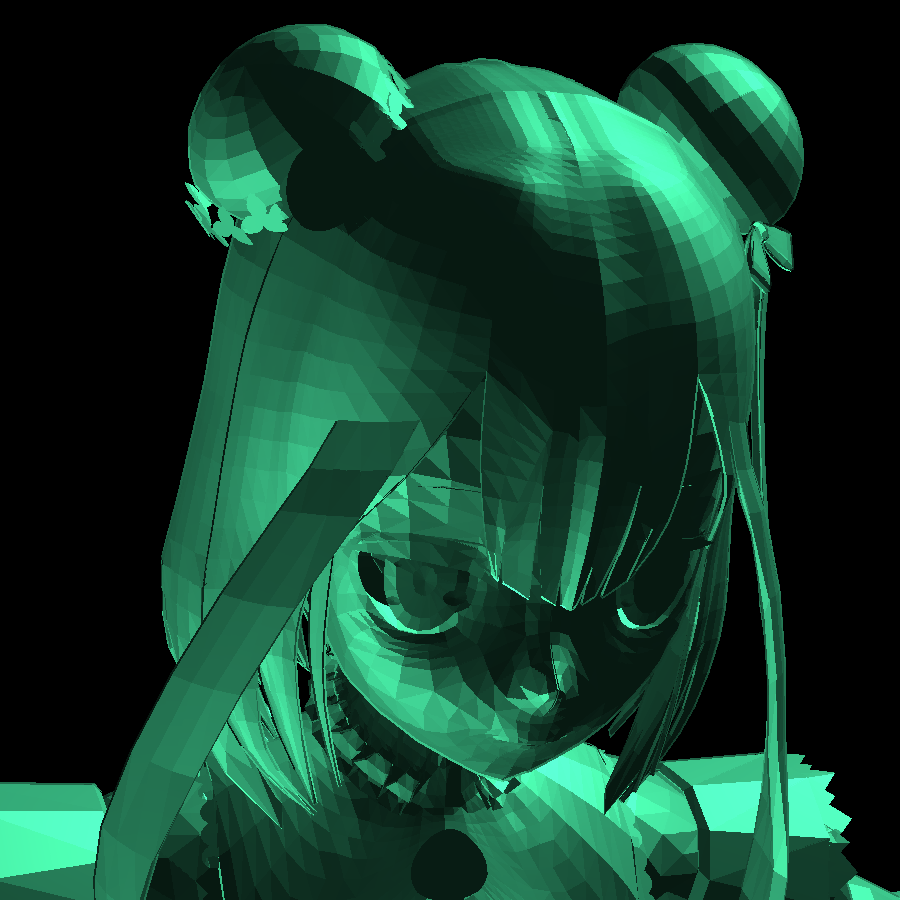
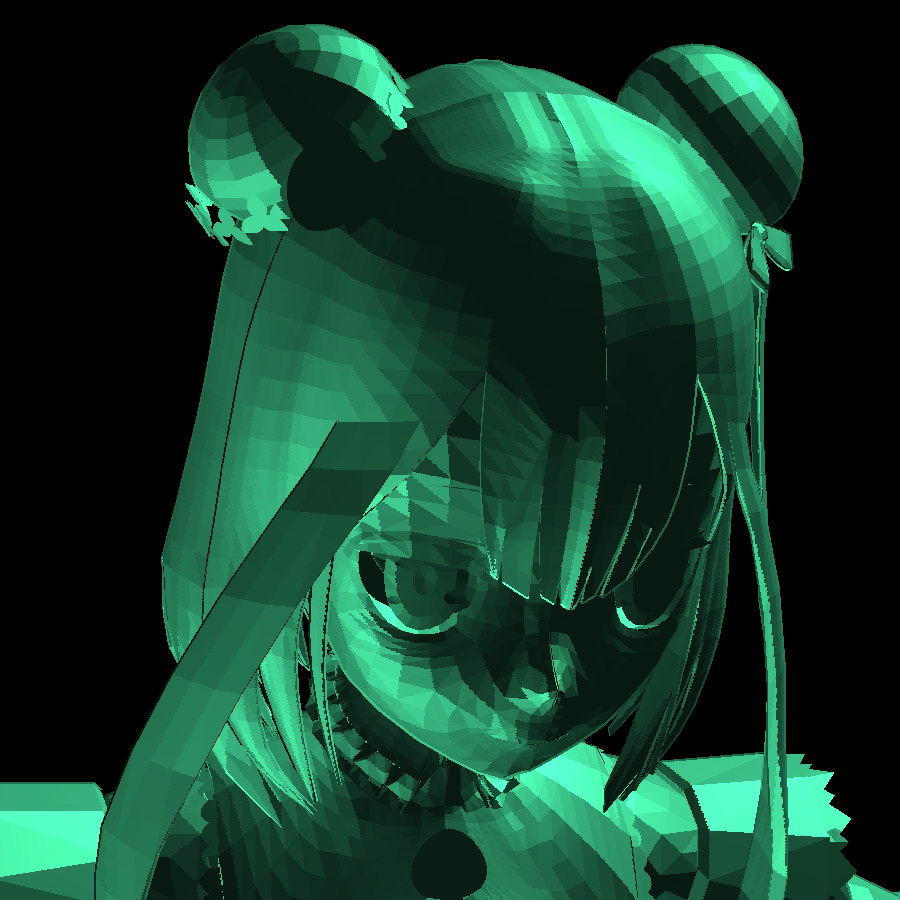
New Flat way

diff --git a/src/utils.py b/src/utils.py
@@ -297,6 +297,23 @@ def DrawPhongShadedLine(
                 )
             )
 
+def toInt(val):
+    #return math.floor(val)
+    if val > 0:
+        return math.floor(val)
+    else:
+        return math.ceil(val)
+
+def update_p(toP1_p, toP2_p, toP1_v, toP2_v, toB1_v, toB2_v):
+    toP1_p_return = copy.deepcopy(toP1_p)
+    toP2_p_return = copy.deepcopy(toP2_p)
+    toP1_p_return.loc += toP1_v
+    toP2_p_return.loc += toP2_v
+    toP1_p_return.b += toB1_v[1]
+    toP2_p_return.b += toB2_v[1]
+
+    return (toP1_p_return, toP2_p_return)
+
 def DrawFlatShadedTriangle (p0, p1, p2, canva:Canva, color):
     points = [p0, p1, p2]
 
@@ -304,80 +321,103 @@ def DrawFlatShadedTriangle (p0, p1, p2, canva:Canva, color):
         return
     
     # Sort points depended on y
-    if(points[1].loc[1] < points[0].loc[1]):
+    # sort to
+    #        0
+    #       /|
+    #      / |
+    #     1  |
+    #      \ |
+    #       \|
+    #        2
+    if(points[1].loc[1] > points[0].loc[1]):
         temp = points[1]
         points[1] = points[0]
         points[0] = temp
     
-    if(points[2].loc[1] < points[0].loc[1]):
+    if(points[2].loc[1] > points[0].loc[1]):
         temp = points[2]
         points[2] = points[0]
         points[0] = temp
     
-    if(points[2].loc[1] < points[1].loc[1]):
+    if(points[2].loc[1] > points[1].loc[1]):
         temp = points[2]
         points[2] = points[1]
         points[1] = temp
     
-    y0 = int(round(points[0].loc[1]))
-    y1 = int(round(points[1].loc[1]))
-    y2 = int(round(points[2].loc[1]))
+    # y based
+    points[0].loc[1] = toInt(points[0].loc[1])
+    points[1].loc[1] = toInt(points[1].loc[1])
+    points[2].loc[1] = toInt(points[2].loc[1])
 
-    x01 = Interpolate(y0, points[0].loc[0], y1, points[1].loc[0])
-    x12 = Interpolate(y1, points[1].loc[0], y2, points[2].loc[0])
-    x02 = Interpolate(y0, points[0].loc[0], y2, points[2].loc[0])
-    if len(x02) <= 1:
-        return
-    x012 = x01
-    x012.extend(x12)
-
-    h01 = Interpolate(y0, points[0].b, y1, points[1].b)
-    h12 = Interpolate(y1, points[1].b, y2, points[2].b)
-    h02 = Interpolate(y0, points[0].b, y2, points[2].b)
-    h012 = h01
-    h012.extend(h12)
-
-
-    z01 = Interpolate(y0, points[0].loc[2], y1, points[1].loc[2])
-    z12 = Interpolate(y1, points[1].loc[2], y2, points[2].loc[2])
-    z02 = Interpolate(y0, points[0].loc[2], y2, points[2].loc[2])
-    z012 = z01
-    z012.extend(z12)
-
-    m = math.floor(len(x012) / 2)
-    if(x02[m] < x012[m]):
-        x_left = x02
-        x_right = x012
-        h_left = h02
-        h_right = h012
-        z_left = z02
-        z_right = z012
+    if points[0].loc[1] != points[1].loc[1]:
+        toP1_p = copy.deepcopy(points[0])
+        toP2_p = copy.deepcopy(points[0])
     else:
-        x_left = x012
-        x_right = x02
-        h_left = h012
-        h_right = h02
-        z_left = z012
-        z_right = z02
-    
-    for y in range(y0, y2):
-        x_l = x_left[y - y0]
-        x_r = x_right[y - y0]
-        x_start = int(round(x_l))
-        x_end = int(round(x_r))
-        if x_end < x_start:
-            x_start, x_end = x_end, x_start
-        h_segment = Interpolate(x_start, h_left[y - y0], x_end + 1, h_right[y - y0])
-        z_segment = Interpolate(x_start, z_left[y - y0], x_end + 1, z_right[y - y0])
-        for x in range(x_start, x_end + 1):
-            b = h_segment[x - x_start]
-            shaded_color = (
-                int(color[0] * b), 
-                int(color[1] * b), 
-                int(color[2] * b)
-            )
-            PutPixel(x=x, y=y, z=z_segment[x - x_start], canva=canva, color=shaded_color)
+        toP1_p = copy.deepcopy(points[1])
+        toP2_p = copy.deepcopy(points[0])
 
+    toP1_v_U = points[1].loc - points[0].loc
+    toP1_v_U = toP1_v_U / abs(toP1_v_U[1]) if not np.isclose(toP1_v_U[1], 0.) else toP1_v_U
+    toP2_v_U = points[2].loc - points[0].loc
+    toP2_v_U = toP2_v_U / abs(toP2_v_U[1]) if not np.isclose(toP2_v_U[1], 0.) else toP2_v_U
+    
+    toB1_v_U = np.array([points[1].loc[1] - points[0].loc[1], points[1].b - points[0].b])
+    toB1_v_U = toB1_v_U / abs(toB1_v_U[0]) if not np.isclose(toB1_v_U[0], 0.) else toB1_v_U
+    toB2_v_U = np.array([points[2].loc[1] - points[0].loc[1], points[2].b - points[0].b])
+    toB2_v_U = toB2_v_U / abs(toB2_v_U[0]) if not np.isclose(toB2_v_U[0], 0.) else toB2_v_U
+
+    toP1_v_D = points[2].loc - points[1].loc
+    toP1_v_D = toP1_v_D / abs(toP1_v_D[1]) if not np.isclose(toP1_v_D[1], 0.) else toP1_v_D
+    toP2_v_D = points[2].loc - points[0].loc
+    toP2_v_D = toP2_v_D / abs(toP2_v_D[1]) if not np.isclose(toP2_v_D[1], 0.) else toP2_v_D
+    
+    toB1_v_D = np.array([points[2].loc[1] - points[1].loc[1], points[2].b - points[1].b])
+    toB1_v_D = toB1_v_D / abs(toB1_v_D[0]) if not np.isclose(toB1_v_D[0], 0.) else toB1_v_D
+    toB2_v_D = np.array([points[2].loc[1] - points[0].loc[1], points[2].b - points[0].b])
+    toB2_v_D = toB2_v_D / abs(toB2_v_D[0]) if not np.isclose(toB2_v_D[0], 0.) else toB2_v_D
+    
+    while(toP1_p.loc[1] > points[2].loc[1]):
+        if toP1_p.loc[0] > toP2_p.loc[0]:
+            left_p, right_p = toP2_p, toP1_p
+        else:
+            left_p, right_p = toP1_p, toP2_p
+        
+        # [x, b] ==> brightness per x
+        b_x_dir_v = np.array([right_p.loc[0] - left_p.loc[0], right_p.b - left_p.b])
+        b_x_dir_v = b_x_dir_v / abs(b_x_dir_v[0]) if abs(b_x_dir_v[0]) > 1. else b_x_dir_v
+        b_px = left_p.b
+        z_v = np.array([right_p.loc[0] - left_p.loc[0], right_p.loc[2] - left_p.loc[2]])
+        z_v = z_v / abs(z_v[0]) if abs(z_v[0]) > 1. else z_v
+        z_px = left_p.loc[2]
+        for x in range(toInt(left_p.loc[0]), toInt(right_p.loc[0])+1):
+            draw_color = list(color)
+            draw_color[0] = color[0] * b_px
+            draw_color[1] = color[1] * b_px
+            draw_color[2] = color[2] * b_px
+            PutPixel(x, toInt(left_p.loc[1]), z_px, canva, draw_color)
+            b_px += b_x_dir_v[1]
+            z_px += z_v[1]
+
+        if toP1_p.loc[1] > points[1].loc[1]:
+            # Above P1
+            #print("U")
+            toP1_v = toP1_v_U
+            toP2_v = toP2_v_U
+            
+            toB1_v = toB1_v_U
+            toB2_v = toB2_v_U
+        else:
+            # below P1
+            #print("D")
+            toP1_v = toP1_v_D
+            toP2_v = toP2_v_D
+            
+            toB1_v = toB1_v_D
+            toB2_v = toB2_v_D
+        toP1_p, toP2_p = update_p(toP1_p, toP2_p, toP1_v, toP2_v, toB1_v, toB2_v)
+
+
+        
 def DrawPhongShadedTriangle(p0, p1, p2, vn0, vn1, vn2, canva:Canva, color:tuple, s:float):
     vertices = [
         (p0, np.asarray(vn0, dtype=np.float32)),
@@ -566,9 +606,9 @@ def DrawWireframeTriangle(
         return
     
     if shade_type == "Flat":
-        DrawFlatShadedLine(p0, p1, canva, line_color)
-        DrawFlatShadedLine(p1, p2, canva, line_color)
-        DrawFlatShadedLine(p2, p0, canva, line_color)
+        # DrawFlatShadedLine(p0, p1, canva, line_color)
+        # DrawFlatShadedLine(p1, p2, canva, line_color)
+        # DrawFlatShadedLine(p2, p0, canva, line_color)
         DrawFlatShadedTriangle(p0, p1, p2, canva, filled_color)
     elif shade_type == "Phong":
         vns = tri.vns

diff --git a/src/main.py b/src/main.py
@@ -37,6 +37,7 @@ def main():
     object.set_s(5)
     print("Render with Flat shading.")
     for t in tqdm(object.triangles, ncols=50):
+    #for t in object.triangles:
         DrawWireframeTriangle(
             t,
             picture, 
@@ -49,34 +50,34 @@ def main():
     img.save("./images/result_Flat.png")
     
     picture.clear()
-
-    print("Render with Phong shading.")
-    for t in tqdm(object.triangles, ncols=50):
-        DrawWireframeTriangle(
-            t,
-            picture, 
-            (0x4E, 0xFE, 0xB3), 
-            (0x4E, 0xFE, 0xB3),
-            "Phong",
-            s=object.s,
-        )
-    img = Image.fromarray(picture.array, mode="RGB")
-    img.save("./images/result_Phong.png")
-
-    picture.clear()
-
-    print("Render vertices and lines only.")
-    for t in tqdm(object.triangles, ncols=50):
-        DrawWireframeTriangle(
-            t,
-            picture, 
-            (0xFF, 0xFF, 0xFF), 
-            (0xFF, 0xFF, 0xFF),
-            "None",
-            s=object.s,
-        )
-    img = Image.fromarray(picture.array, mode="RGB")
-    img.save("./images/result_Vertices_and_lines.png")
+# 
+    # print("Render with Phong shading.")
+    # for t in tqdm(object.triangles, ncols=50):
+    #     DrawWireframeTriangle(
+    #         t,
+    #         picture, 
+    #         (0x4E, 0xFE, 0xB3), 
+    #         (0x4E, 0xFE, 0xB3),
+    #         "Phong",
+    #         s=object.s,
+    #     )
+    # img = Image.fromarray(picture.array, mode="RGB")
+    # img.save("./images/result_Phong.png")
+# 
+    # picture.clear()
+# 
+    # print("Render vertices and lines only.")
+    # for t in tqdm(object.triangles, ncols=50):
+    #     DrawWireframeTriangle(
+    #         t,
+    #         picture, 
+    #         (0xFF, 0xFF, 0xFF), 
+    #         (0xFF, 0xFF, 0xFF),
+    #         "None",
+    #         s=object.s,
+    #     )
+    # img = Image.fromarray(picture.array, mode="RGB")
+    # img.save("./images/result_Vertices_and_lines.png")
 
 if __name__ == "__main__":
     main()
